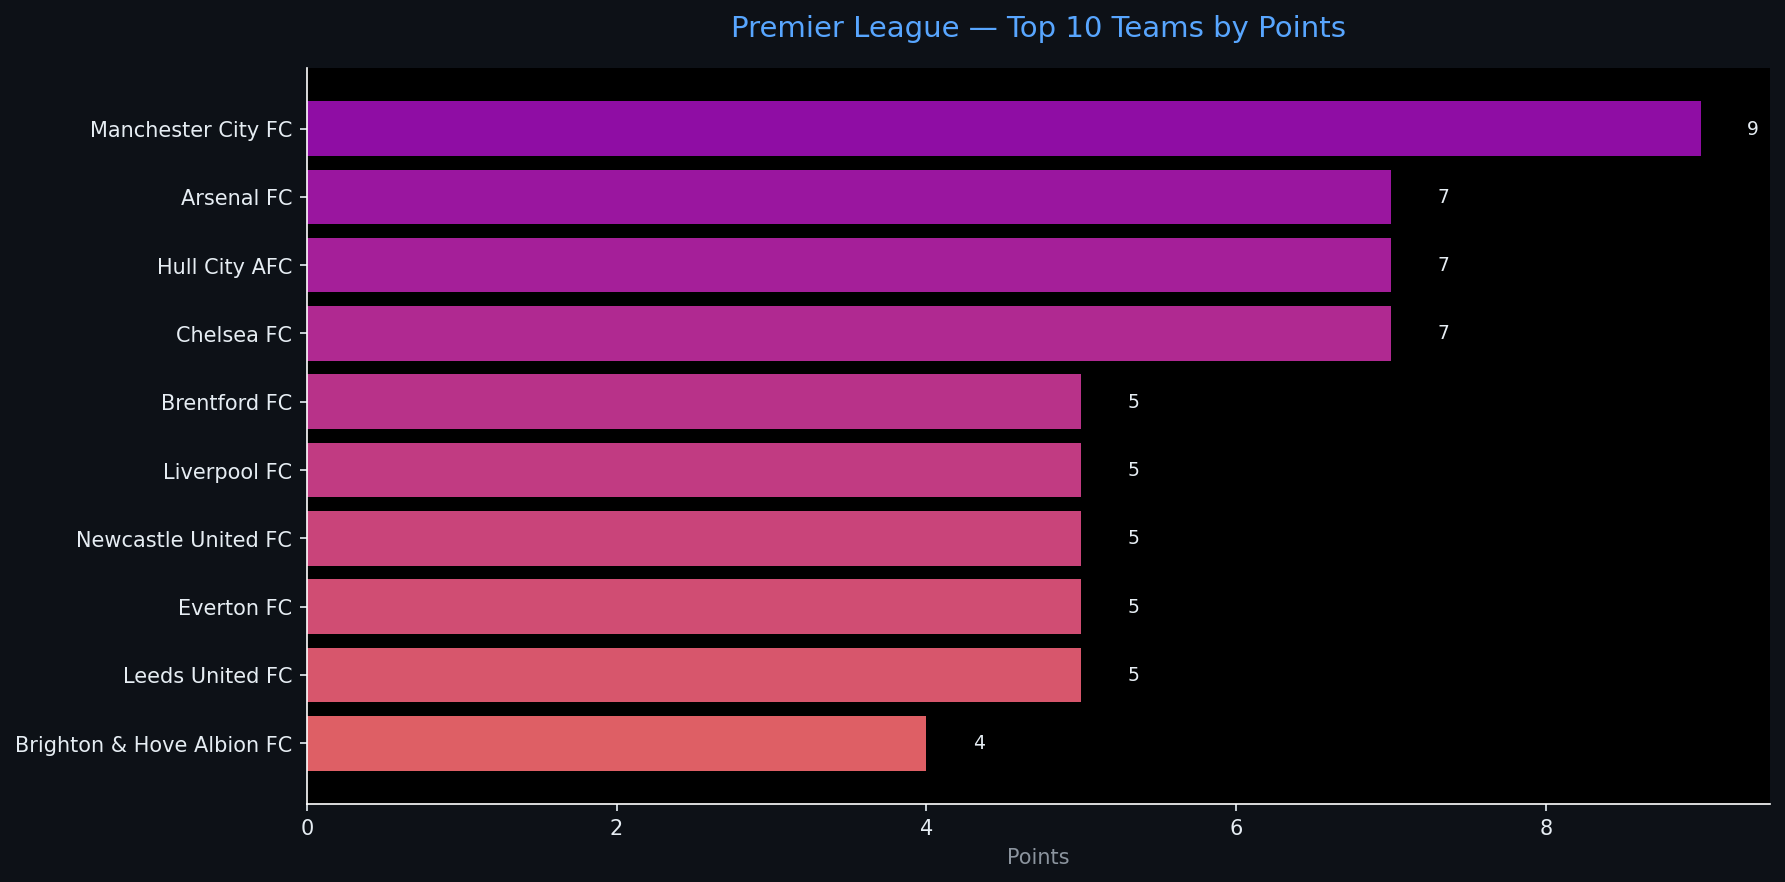
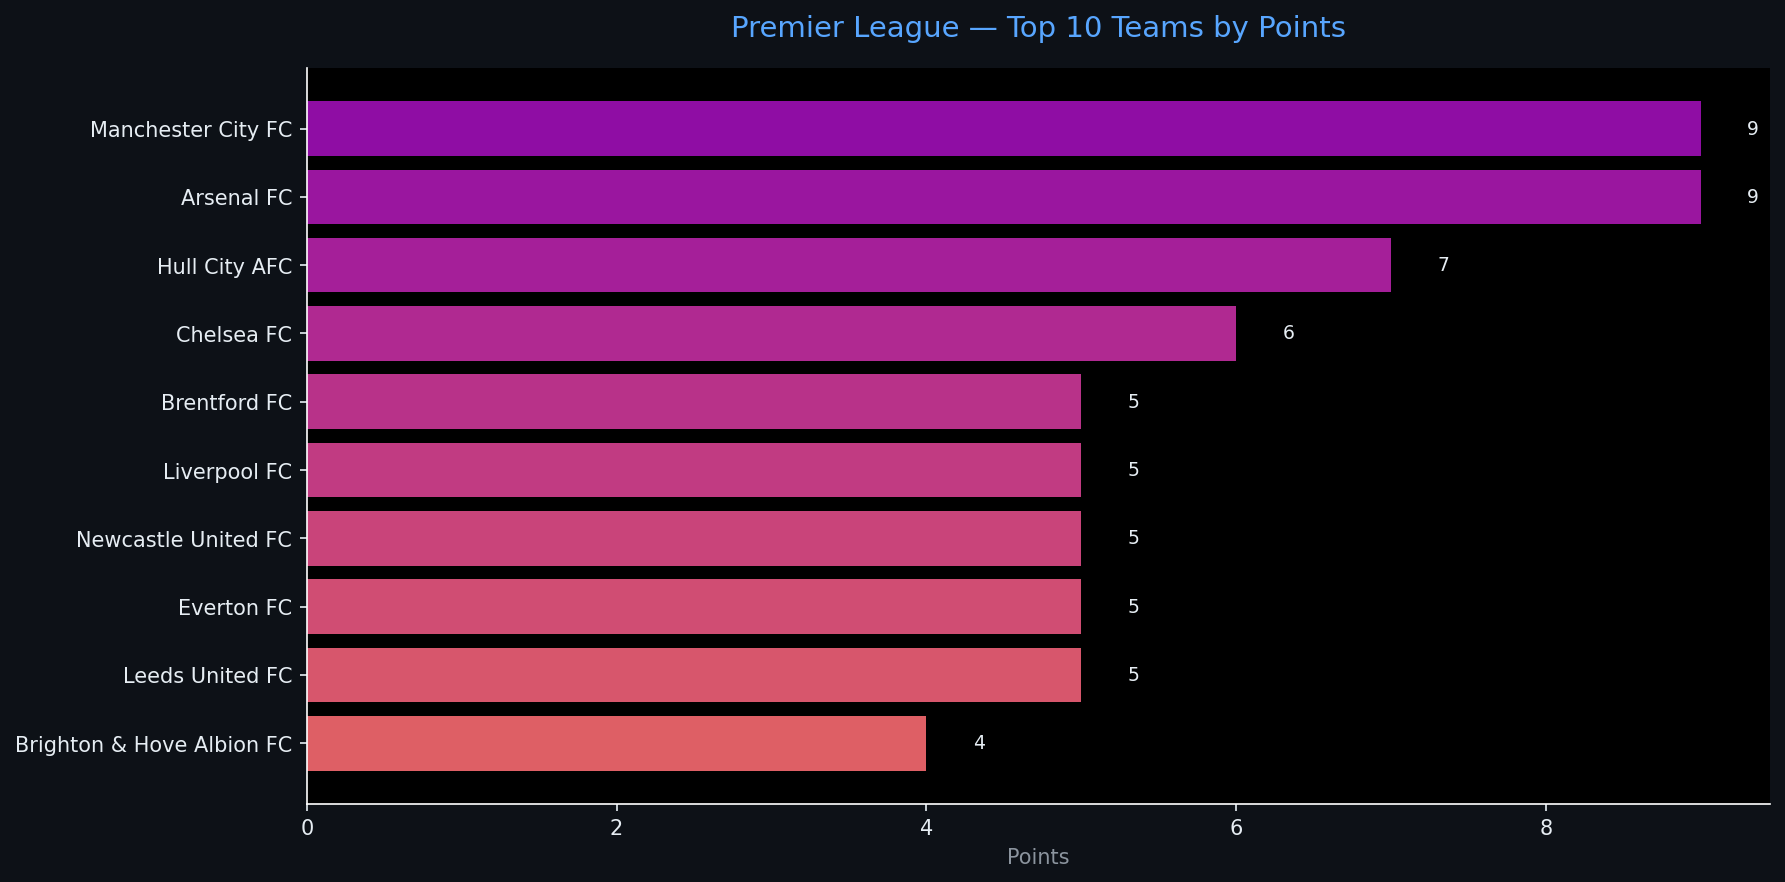
Automated ETL data update: 2026-09-06 19:51

Changed region(s): [[0.7703, 0.1837, 0.9552, 0.2755], [0.6779, 0.3367, 0.8011, 0.4286]]

diff --git a/reports/pipeline_report.html b/reports/pipeline_report.html
@@ -4,7 +4,7 @@
 <head>
     <meta charset="UTF-8">
     <meta name="viewport" content="width=device-width, initial-scale=1.0">
-    <title>Sports Data Pipeline Report — 2026-09-06 16:38</title>
+    <title>Sports Data Pipeline Report — 2026-09-06 19:50</title>
     <style>
         body { font-family: 'Segoe UI', sans-serif; background: #0d1117; color: #e6edf3; margin: 0; padding: 2rem; }
         h1   { color: #58a6ff; border-bottom: 1px solid #30363d; padding-bottom: 0.5rem; }
@@ -20,7 +20,7 @@
 </head>
 <body>
     <h1>⚽ Sports Data Pipeline — Automated Report</h1>
-    <p class="meta">Generated: 2026-09-06 16:38 UTC &nbsp;|&nbsp; Sport: <strong>football</strong> &nbsp;|&nbsp; Rows: <strong>20</strong></p>
+    <p class="meta">Generated: 2026-09-06 19:50 UTC &nbsp;|&nbsp; Sport: <strong>football</strong> &nbsp;|&nbsp; Rows: <strong>20</strong></p>
     <span class="badge">Pipeline v1.0.0</span>
     <h2>📊 Data Table</h2>
     <table class="dataframe data-table">
@@ -61,15 +61,15 @@
       <td>2</td>
       <td>Arsenal FC</td>
       <td>3</td>
-      <td>7</td>
-      <td>2</td>
-      <td>1</td>
+      <td>9</td>
+      <td>3</td>
       <td>0</td>
-      <td>5</td>
+      <td>0</td>
+      <td>6</td>
       <td>1</td>
-      <td>0.667</td>
-      <td>2.333</td>
-      <td>0.962</td>
+      <td>1.000</td>
+      <td>3.000</td>
+      <td>0.973</td>
       <td>NaN</td>
     </tr>
     <tr>
@@ -91,15 +91,15 @@
       <td>4</td>
       <td>Chelsea FC</td>
       <td>3</td>
-      <td>7</td>
-      <td>2</td>
-      <td>1</td>
-      <td>0</td>
-      <td>8</td>
       <td>6</td>
+      <td>2</td>
+      <td>0</td>
+      <td>1</td>
+      <td>8</td>
+      <td>7</td>
       <td>0.667</td>
-      <td>2.333</td>
-      <td>0.640</td>
+      <td>2.000</td>
+      <td>0.566</td>
       <td>NaN</td>
     </tr>
     <tr>
@@ -362,7 +362,7 @@
         
         <tr><td>Null Values</td><td>91</td></tr>
         
-        <tr><td>Run Timestamp (UTC)</td><td>2026-09-06T16:38:03.431544</td></tr>
+        <tr><td>Run Timestamp (UTC)</td><td>2026-09-06T19:50:59.051925</td></tr>
         
         <tr><td>ML Features Ready</td><td>False</td></tr>
         
